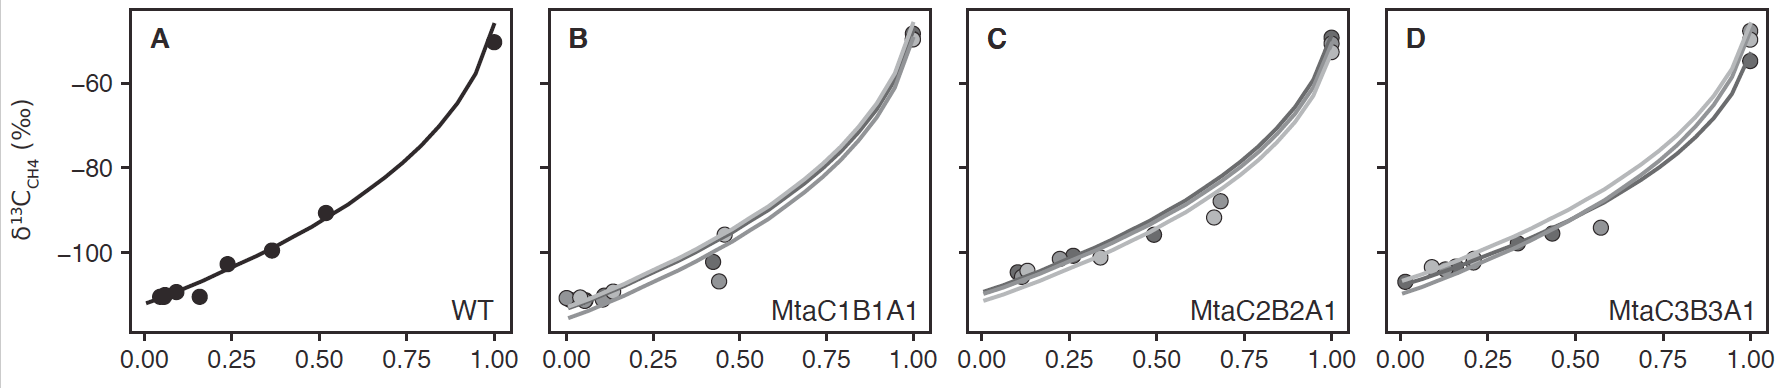
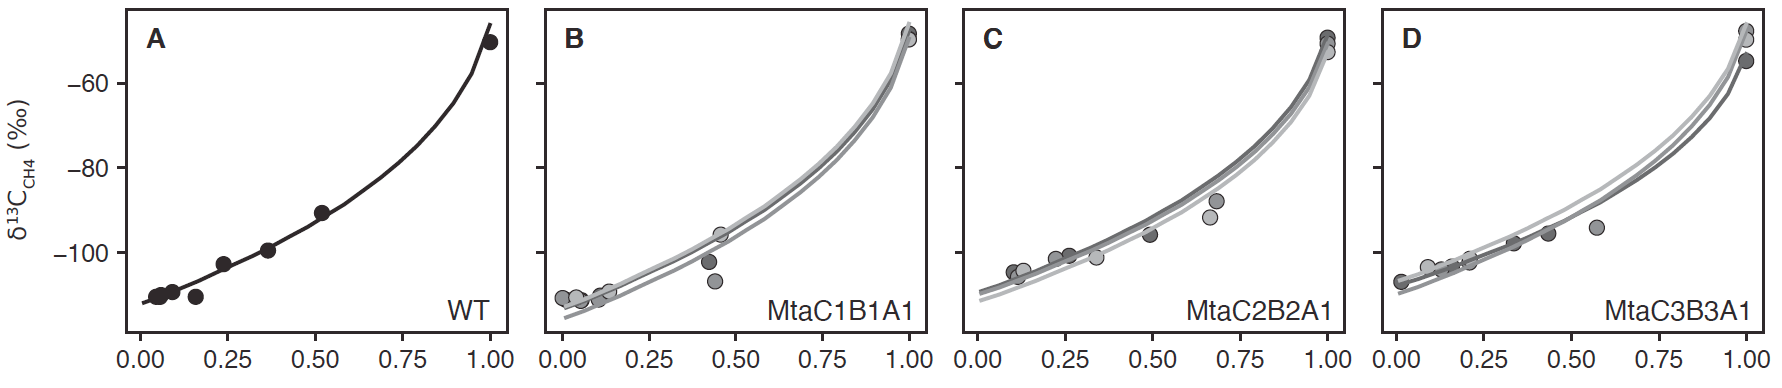
change figures and adjust width

diff --git a/assets/css/style.scss b/assets/css/style.scss
@@ -148,7 +148,7 @@ body {
 
 .site-main img {
   display: block;
-  max-width: 100%;
+  width: 100%;
   height: auto;
   margin: 1.5rem auto;
   border-radius: 6px;